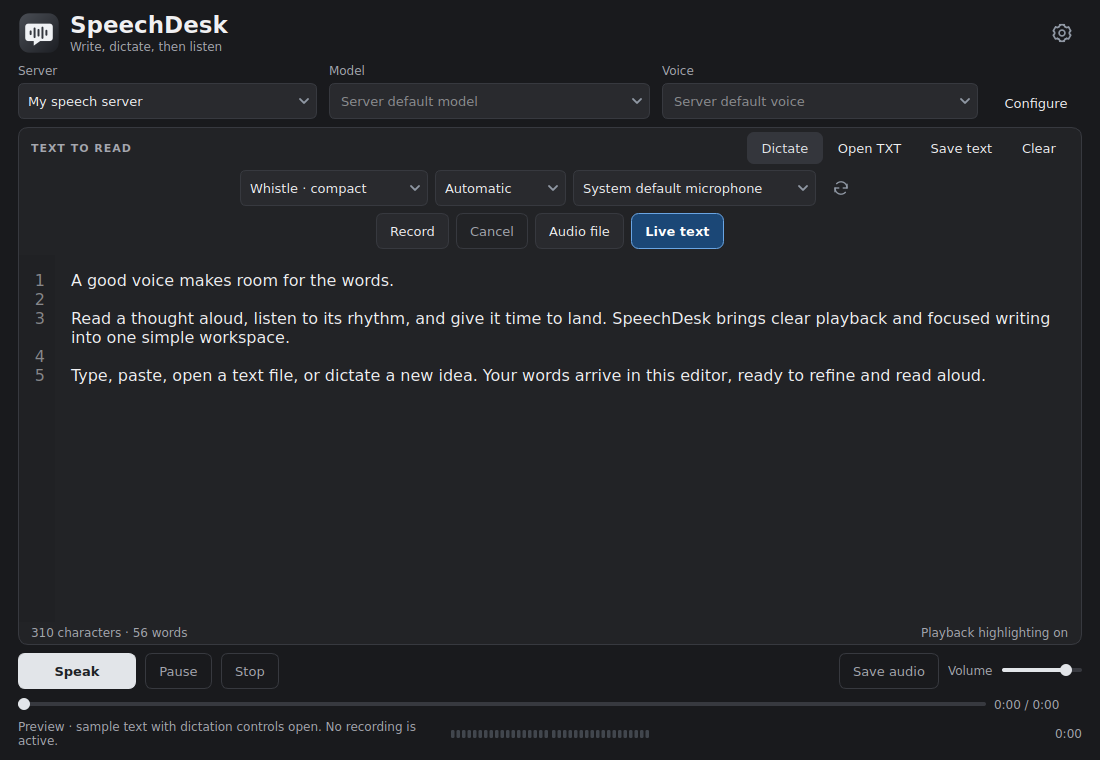
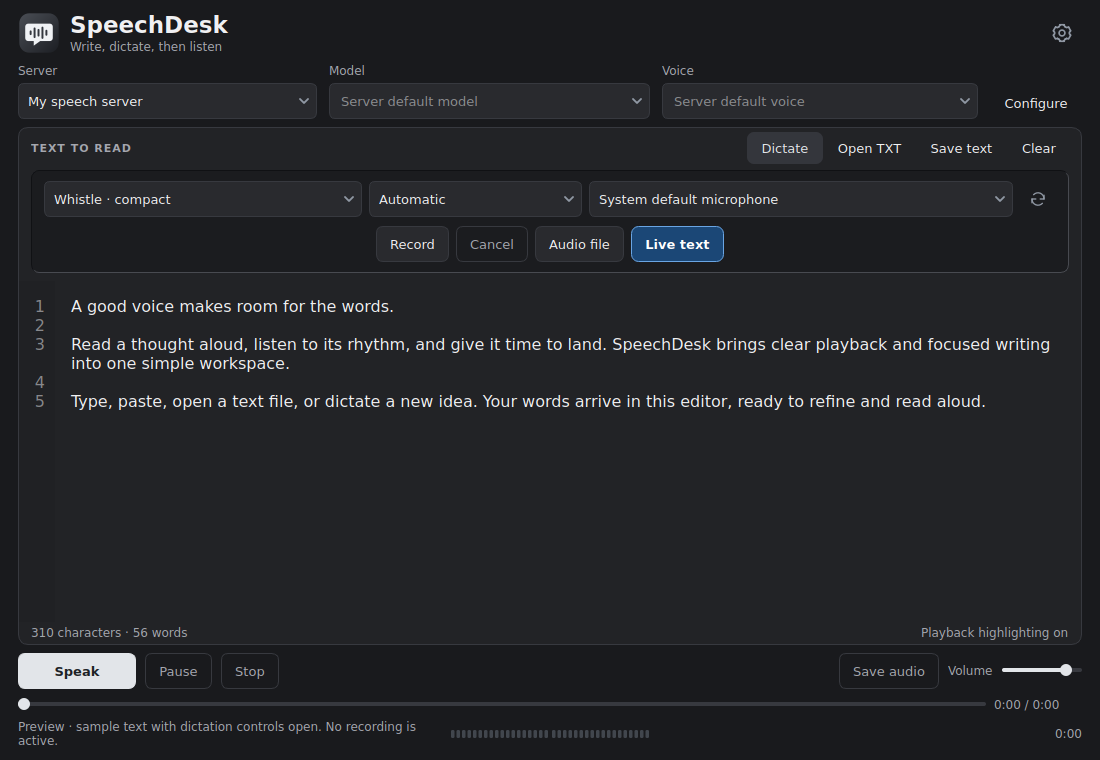
Finalize the inset dictation toolbar for SpeechDesk 1.1.1
Expand model, language and microphone selectors across the first row and center the compact action buttons below. Add a subtle inset panel in both themes and keep long selector labels accessible through local vertical scrolling while actions remain visible.

Respect control minimum heights, improve geometry diagnostics, and load installed fonts for Windows offscreen UI tests. Refresh both dictation screenshots and align release documentation with the final layout.

Validation: native Linux build; focused UI CTest including 680 x 540 and standard layouts, long-label scrolling, editable models and toggle/meter state; visual review in light and dark themes; offline documentation generation and whitespace checks.

diff --git a/src/mainwindow.cpp b/src/mainwindow.cpp
@@ -34,6 +34,7 @@
 #include <QListView>
 #include <QResizeEvent>
 #include <QMouseEvent>
+#include <QScrollArea>
 #include <QtMath>
 #include <QScreen>
 #include <QCryptographicHash>
@@ -144,7 +145,41 @@ private:
     }
 };
 
-// Rows are based on real widget hints, and each row is centered independently.
+// Keep the action row visible when a device name needs more vertical space
+// than the compact window can provide. Only the selector row scrolls.
+class SelectorScrollArea final : public QScrollArea {
+public:
+    SelectorScrollArea()
+    {
+        setFrameShape(QFrame::NoFrame);setWidgetResizable(true);
+        setHorizontalScrollBarPolicy(Qt::ScrollBarAlwaysOff);
+        setMinimumHeight(36);viewport()->setAutoFillBackground(false);
+        QSizePolicy policy(QSizePolicy::Expanding,QSizePolicy::Preferred);
+        policy.setHeightForWidth(true);setSizePolicy(policy);
+    }
+    void setSelectors(QWidget *selectors)
+    {
+        setWidget(selectors);selectors->setAutoFillBackground(false);selectors->installEventFilter(this);
+    }
+    QSize minimumSizeHint() const override {return {0,36};}
+    QSize sizeHint() const override {return widget()?widget()->sizeHint().expandedTo(QSize(0,36)):QSize(0,36);}
+    int heightForWidth(int width) const override {return widget()?qMax(36,widget()->heightForWidth(qMax(1,width))):36;}
+protected:
+    void resizeEvent(QResizeEvent *event) override {QScrollArea::resizeEvent(event);keepFullContentHeight();}
+    bool eventFilter(QObject *object,QEvent *event) override
+    {
+        const bool handled=QScrollArea::eventFilter(object,event);
+        if(object==widget()&&event->type()==QEvent::LayoutRequest){keepFullContentHeight();updateGeometry();}
+        return handled;
+    }
+private:
+    void keepFullContentHeight()
+    {
+        if(widget())widget()->setMinimumHeight(qMax(36,widget()->heightForWidth(qMax(1,viewport()->width()))));
+    }
+};
+
+// Rows use real widget hints and remain independently centered.
 // The minimum width is the widest individual control's wrapped minimum, not
 // the sum of a fixed row, so the window keeps its normal compact size.
 class CenteredDictationLayout final : public QLayout {
@@ -167,7 +202,8 @@ public:
     {
         QSize size(0,0);int visible=0;
         for(auto item:m_items)if(!item->isEmpty()) {
-            size.rwidth()+=item->sizeHint().width()+(visible++?spacing():0);size.setHeight(qMax(size.height(),item->sizeHint().height()));
+            const QSize hint=item->sizeHint().expandedTo(item->minimumSize());
+            size.rwidth()+=hint.width()+(visible++?spacing():0);size.setHeight(qMax(size.height(),hint.height()));
         }
         const auto margins=contentsMargins();return size+QSize(margins.left()+margins.right(),margins.top()+margins.bottom());
     }
@@ -203,8 +239,9 @@ private:
         for(auto item:m_items) {
             if(item->isEmpty())continue;
             if(auto widget=item->widget())widget->ensurePolished();
-            const int width=qMin(available,item->sizeHint().expandedTo(item->minimumSize()).width());
-            const int height=qMax(item->sizeHint().height(),item->hasHeightForWidth()?item->heightForWidth(width):0);
+            const QSize hint=item->sizeHint().expandedTo(item->minimumSize());
+            const int width=qMin(available,hint.width());
+            const int height=qMax(hint.height(),item->hasHeightForWidth()?item->heightForWidth(width):0);
             if(!row.isEmpty()&&rowWidth+spacing()+width>available)finishRow();
             rowWidth+=width+(row.isEmpty()?0:spacing());rowHeight=qMax(rowHeight,height);row.append({item,{width,height}});
         }
@@ -364,14 +401,18 @@ QWidget *MainWindow::buildTts()
 }
 QWidget *MainWindow::buildDictation()
 {
-    auto panel=new QWidget;auto rows=new QVBoxLayout(panel);rows->setContentsMargins(12,2,12,6);rows->setSpacing(7);
-    auto selectors=new QWidget;selectors->setObjectName("dictationSelectors");auto layout=new CenteredDictationLayout(selectors);layout->setContentsMargins(0,0,0,0);rows->addWidget(selectors);
+    auto panel=new QWidget;auto insetLayout=new QVBoxLayout(panel);insetLayout->setContentsMargins(12,2,12,8);
+    auto inset=new QFrame;inset->setObjectName("dictationInset");insetLayout->addWidget(inset);
+    auto rows=new QVBoxLayout(inset);rows->setContentsMargins(12,10,12,10);rows->setSpacing(9);
+    auto selectors=new QWidget;selectors->setObjectName("dictationSelectors");auto layout=new QHBoxLayout(selectors);layout->setContentsMargins(0,0,0,0);layout->setSpacing(7);
+    auto selectorScroll=new SelectorScrollArea;selectorScroll->setObjectName("dictationSelectorScroll");selectorScroll->setSelectors(selectors);rows->addWidget(selectorScroll);
     m_sttModel=new FullTextComboBox;m_sttModel->setObjectName("recognitionModel");
     m_sttModel->setAccessibleName("Dictation recognition model");m_sttModel->setToolTip("Local recognition model");
     refreshDictationModels();
     m_language=new FullTextComboBox;m_language->setObjectName("recognitionLanguage");m_language->setAccessibleName("Dictation language");m_language->setToolTip("Language to recognize");
     m_device=new FullTextComboBox;m_device->setObjectName("microphoneCombo");m_device->setAccessibleName("Dictation microphone");m_device->addItem("System default microphone",QString());m_device->setToolTip("Microphone input");
-    layout->addWidget(m_sttModel);layout->addWidget(m_language);layout->addWidget(m_device);
+    for(auto box:{m_sttModel,m_language,m_device}){auto policy=box->sizePolicy();policy.setHorizontalPolicy(QSizePolicy::Expanding);box->setSizePolicy(policy);}
+    layout->addWidget(m_sttModel,3);layout->addWidget(m_language,2);layout->addWidget(m_device,4);
     m_refreshDevices=tool("","Refresh microphones");m_refreshDevices->setObjectName("refreshMicrophonesButton");m_refreshDevices->setIcon(QIcon(":/refresh.svg"));m_refreshDevices->setIconSize(QSize(18,18));m_refreshDevices->setFixedSize(36,36);layout->addWidget(m_refreshDevices);
     connect(m_refreshDevices,&QToolButton::clicked,this,[this]{if(!m_sttBusy&&!m_recording)m_stt.requestDevices();});
     connect(m_sttModel,&QComboBox::currentIndexChanged,this,&MainWindow::updateLanguages);updateLanguages();
@@ -379,8 +420,9 @@ QWidget *MainWindow::buildDictation()
     m_cancelStt=new QPushButton("Cancel");m_cancelStt->setObjectName("cancelDictationButton");m_cancelStt->setToolTip("Discard this dictation and restore the original text (Escape)");
     m_transcribeFile=new QPushButton("Audio file");m_transcribeFile->setObjectName("insertAudioButton");m_transcribeFile->setToolTip("Insert words from an audio recording at the cursor");
     m_live=new AnimatedToggleButton("Live text");m_live->setObjectName("liveDictation");m_live->setChecked(m_settings.value("live").toBool(true));m_live->setToolTip("Update text while speaking, then refine it after Stop. Turn off to transcribe only after recording.");
-    auto actions=new QWidget;actions->setObjectName("dictationActions");auto actionLayout=new CenteredDictationLayout(actions);actionLayout->setContentsMargins(0,0,0,0);rows->addWidget(actions);
+    auto actions=new QWidget;actions->setObjectName("dictationActions");auto actionLayout=new QHBoxLayout(actions);actionLayout->setContentsMargins(0,0,0,0);actionLayout->setSpacing(7);actionLayout->addStretch();rows->addWidget(actions);
     for(auto button:QList<QPushButton *>{m_record,m_cancelStt,m_transcribeFile,m_live}){button->setMinimumHeight(36);button->setSizePolicy(QSizePolicy::Minimum,QSizePolicy::Preferred);actionLayout->addWidget(button);}
+    actionLayout->addStretch();
     connect(m_record,&QPushButton::clicked,this,&MainWindow::record);connect(m_transcribeFile,&QPushButton::clicked,this,&MainWindow::openAudio);connect(m_cancelStt,&QPushButton::clicked,this,&MainWindow::cancelDictation);
     return panel;
 }
@@ -695,6 +737,8 @@ QCheckBox::indicator { width:16px; height:16px; border:1px solid %5; border-radi
 QCheckBox::indicator:checked { background:#737b87; image:url(:/check.svg); border-color:#737b87; }
 QToolTip { background:%4; border:1px solid %5; padding:6px; }
 )").arg(text,bg,muted,panel,border,input,hover).arg(accent,accentText,accentHover,focus,selection);
+    css+=QString("QFrame#dictationInset { background:%1; border:1px solid %2; border-top-color:%3; border-left-color:%3; border-radius:8px; }")
+        .arg(dark?"#1b1c1f":"#eceeef",dark?"#484a50":"#ffffff",dark?"#101114":"#c5c9d0");
     qApp->setStyleSheet(css);m_level->setDark(dark);m_live->setDark(dark);QFont editorFont=qApp->font();editorFont.setPixelSize(m_settings.value("fontSize").toInt(16));m_text->setFont(editorFont);
     m_text->setStyleSheet(QString("font-size:%1px;").arg(editorFont.pixelSize()));
     // Appearance changes must neither create nor erase an unsaved-text state.

diff --git a/tests/ui_flow_test.cpp b/tests/ui_flow_test.cpp
@@ -21,6 +21,15 @@ class UiFlowTest : public QObject {
     QProcess fixture;
     QTemporaryDir scratch;
     QString base;
+    static QString controlGeometry(QWidget *control,QWidget *container) {
+        QString details;QDebug stream(&details);
+        stream.nospace()<<control->objectName()<<" bounds="<<QRect(control->mapTo(container,QPoint()),control->size())
+            <<" container="<<container->rect()<<" hint="<<control->sizeHint()<<" minimum="<<control->minimumSizeHint()
+            <<" containerMinimum="<<container->minimumSizeHint()<<" containerHfw="<<container->heightForWidth(container->width())
+            <<" window="<<control->window()->size()<<" font="<<QFontInfo(control->font()).family()
+            <<" pixels="<<QFontInfo(control->font()).pixelSize()<<" scale="<<control->devicePixelRatioF();
+        return details;
+    }
     void prepare(MainWindow &window, const QString &path = "/json") {
         auto profile = defaultServerProfile();
         profile["baseUrl"] = base;
@@ -55,6 +64,7 @@ private slots:
         QApplication::setStyle("Fusion");
         QFont font=qApp->font();
 #ifdef Q_OS_WIN
+        QVERIFY2(!QFontDatabase::families().isEmpty(),"UI geometry tests require real fonts. Set QT_QPA_FONTDIR to the Windows Fonts directory for the offscreen platform.");
         font.setFamily("Segoe UI");
 #else
         font.setFamily("DejaVu Sans");
@@ -231,6 +241,14 @@ private slots:
             window.resize(target);QCoreApplication::processEvents();
             QCOMPARE(window.size(),target);
             auto *actions=window.findChild<QWidget *>("dictationActions");QVERIFY(actions);
+            auto *selectors=window.findChild<QWidget *>("dictationSelectors");QVERIFY(selectors);
+            QCOMPARE(window.m_sttModel->mapTo(selectors,QPoint()).x(),selectors->contentsRect().left());
+            const QRect refreshBounds(window.m_refreshDevices->mapTo(selectors,QPoint()),window.m_refreshDevices->size());
+            QCOMPARE(refreshBounds.right(),selectors->contentsRect().right());
+            for(QComboBox *box:{window.m_sttModel,window.m_language,window.m_device}) {
+                QCOMPARE(box->sizePolicy().horizontalPolicy(),QSizePolicy::Expanding);
+                QCOMPARE(box->mapTo(selectors,QPoint()).y(),window.m_sttModel->mapTo(selectors,QPoint()).y());
+            }
             QRect buttonBounds;
             for(QPushButton *button:{window.m_record,window.m_cancelStt,window.m_transcribeFile,static_cast<QPushButton *>(window.m_live)}) {
                 button->ensurePolished();
@@ -240,9 +258,9 @@ private slots:
                 QVERIFY2(button->height()>=qCeil(metrics.height())+16,qPrintable(button->text()));
                 QVERIFY(button->size().expandedTo(button->sizeHint())==button->size());
                 const QRect bounds(button->mapTo(actions,QPoint()),button->size());
-                QVERIFY(actions->rect().contains(bounds));buttonBounds=buttonBounds.united(bounds);
+                QVERIFY2(actions->rect().contains(bounds),qPrintable(controlGeometry(button,actions)));buttonBounds=buttonBounds.united(bounds);
             }
-            QVERIFY(qAbs(buttonBounds.center().x()-actions->rect().center().x())<=1);
+            QVERIFY2(qAbs(buttonBounds.center().x()-actions->rect().center().x())<=1,qPrintable(controlGeometry(window.m_live,actions)));
             QCOMPARE(window.m_live->text(),QString("Live text"));
             for(QComboBox *box:{window.m_server,window.m_model,window.m_voice,window.m_sttModel,window.m_language,window.m_device}) {
                 QStyleOptionComboBox option;option.initFrom(box);option.editable=box->isEditable();option.frame=true;
@@ -260,12 +278,18 @@ private slots:
         }
         // Device names can exceed a compact row without losing any characters.
         window.resize(680,540);
-        window.m_device->addItem("USB microphone with an unusually long manufacturer and product name for the recording input");
+        window.m_device->addItem(QString("USB microphone with an unusually long manufacturer and product name for the recording input ").repeated(3));
         window.m_device->setCurrentIndex(window.m_device->count()-1);QCoreApplication::processEvents();
         QCOMPARE(window.size(),QSize(680,540));
         QVERIFY(window.m_text->height()>=54);
         QVERIFY(window.m_device->hasHeightForWidth());
-        QVERIFY(window.m_device->height()>=window.m_device->heightForWidth(window.m_device->width()));
+        QTRY_VERIFY2_WITH_TIMEOUT(window.m_device->height()>=window.m_device->heightForWidth(window.m_device->width()),qPrintable(controlGeometry(window.m_device,window.m_device->parentWidget())),500);
+        auto *selectorScroll=window.findChild<QScrollArea *>("dictationSelectorScroll");QVERIFY(selectorScroll);
+        QCOMPARE(selectorScroll->horizontalScrollBarPolicy(),Qt::ScrollBarAlwaysOff);
+        QTRY_VERIFY_WITH_TIMEOUT(selectorScroll->verticalScrollBar()->maximum()>0,500);
+        selectorScroll->verticalScrollBar()->setValue(selectorScroll->verticalScrollBar()->maximum());
+        const QRect deviceBounds(window.m_device->mapTo(selectorScroll->viewport(),QPoint()),window.m_device->size());
+        QVERIFY(deviceBounds.bottom()<=selectorScroll->viewport()->rect().bottom());
         auto *actions=window.findChild<QWidget *>("dictationActions");
         QRect bounds;
         for(QPushButton *button:{window.m_record,window.m_cancelStt,window.m_transcribeFile,static_cast<QPushButton *>(window.m_live)})bounds=bounds.united(QRect(button->mapTo(actions,QPoint()),button->size()));

diff --git a/packaging/create_documents.py b/packaging/create_documents.py
@@ -11,8 +11,8 @@ prefix=f'SpeechDesk-{version}'
 screenshots=[
  ('screenshot-dark.png','Dark','Editor · Dark theme','Write, read and save audio in the main editor.'),
  ('screenshot-light.png','Light','Editor · Light theme','Write, read and save audio in the main editor.'),
- ('dictation-dark.png','Dictation-Dark','Dictation · Dark theme','Centered controls keep model, language and microphone selections readable.'),
- ('dictation-light.png','Dictation-Light','Dictation · Light theme','Centered controls keep model, language and microphone selections readable.'),
+ ('dictation-dark.png','Dictation-Dark','Dictation · Dark theme','Model, language and microphone selectors fill the top row; compact actions are centered below.'),
+ ('dictation-light.png','Dictation-Light','Dictation · Light theme','Model, language and microphone selectors fill the top row; compact actions are centered below.'),
  ('settings-servers-dark.png','Settings-Servers-Dark','Server settings · Dark theme','Configure speech providers and optional encrypted API-key storage.'),
  ('settings-servers-light.png','Settings-Servers-Light','Server settings · Light theme','Configure speech providers and optional encrypted API-key storage.'),
  ('settings-about-dark.png','Settings-About-Dark','About · Dark theme','Find the application version and open the online manual.'),

diff --git a/docs/Verification.md b/docs/Verification.md
@@ -2,7 +2,7 @@
 
 ## Version 1.1.1 verification scope
 
-This patch focuses on full-label speech and dictation controls, centered dictation actions at compact and wider window sizes, and updated screenshots in both themes. Local geometry checks passed at 100%, 125%, 150% and 200% display scaling. CI records the Windows/Linux build results, focused tests and package checks for the exact submitted commit. A screenshot documents the interface; it does not establish provider compatibility or physical audio-device operation.
+This patch focuses on readable speech and dictation labels, a dictation selector row spanning the panel, and a compact action row centered beneath it. Geometry checks cover the inset panel at compact and wider window sizes. CI records the Windows/Linux build results, focused tests and package checks for the exact submitted commit. A screenshot documents the interface; it does not establish provider compatibility or physical audio-device operation.
 
 ## Version 1.1.0 local validation baseline
 

diff --git a/docs/Release-Notes.md b/docs/Release-Notes.md
@@ -5,7 +5,7 @@ SpeechDesk 1.1.1 is a patch release for dictation layout and interface documenta
 ## Changes in 1.1.1
 
 - Size speech and dictation dropdowns for complete labels, including the dropdown arrow and padding. Long selected values and popup entries wrap when needed.
-- Center dictation selectors and action buttons in separate groups, keeping each wrapped row centered at narrower window widths.
+- Arrange dictation selectors across the panel, with a compact row of action buttons centered beneath them. A subtle inset background separates the controls from the editor. At compact sizes, exceptionally long selector labels can scroll vertically within the toolbar while the action buttons remain visible.
 - Measure the Live text button using its rendered font and preserve padding at different display scales.
 - Include eight fresh screenshots covering the editor, dictation, server settings and About in dark and light themes. The screenshots are available separately and within the offline documentation.
 

diff --git a/.github/RELEASE_TEMPLATE.md b/.github/RELEASE_TEMPLATE.md
@@ -1,6 +1,6 @@
 SpeechDesk 1.1.1 is a native desktop application for text-to-speech playback and local dictation on Windows and Linux.
 
-This patch keeps speech and dictation selector labels readable, corrects Live text button sizing, and centers dictation selectors and actions in separate groups. Eight fresh screenshots cover the editor, dictation, server settings and About in both themes.
+This patch keeps speech and dictation selector labels readable and corrects Live text button sizing. A subtle inset dictation panel places selectors across its width, with compact action buttons centered in the row below. Eight fresh screenshots cover the editor, dictation, server settings and About in both themes.
 
 ## Features
 
